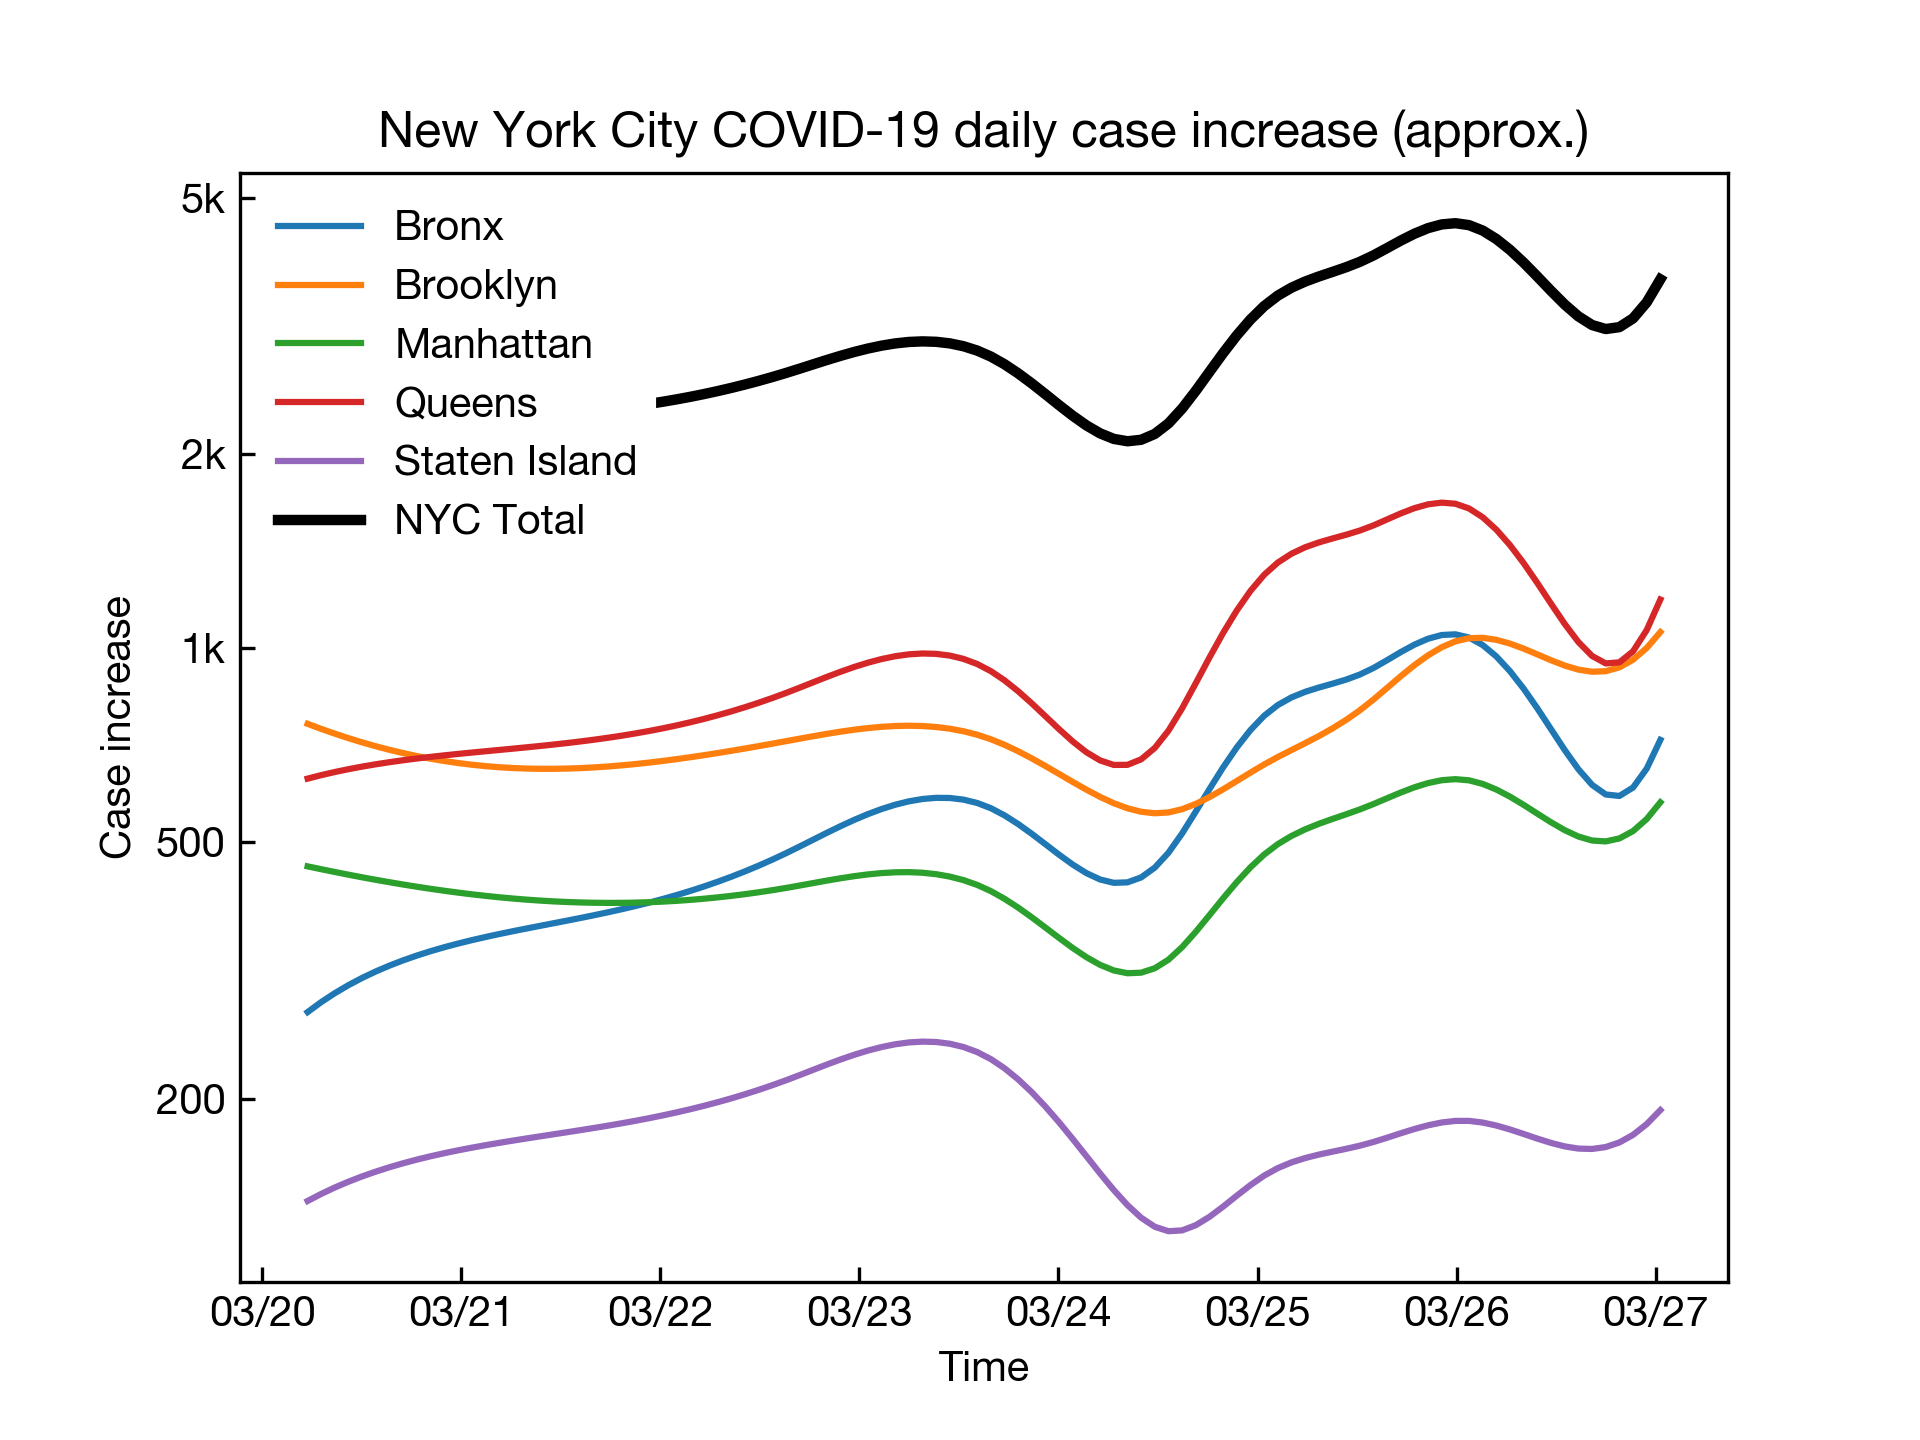
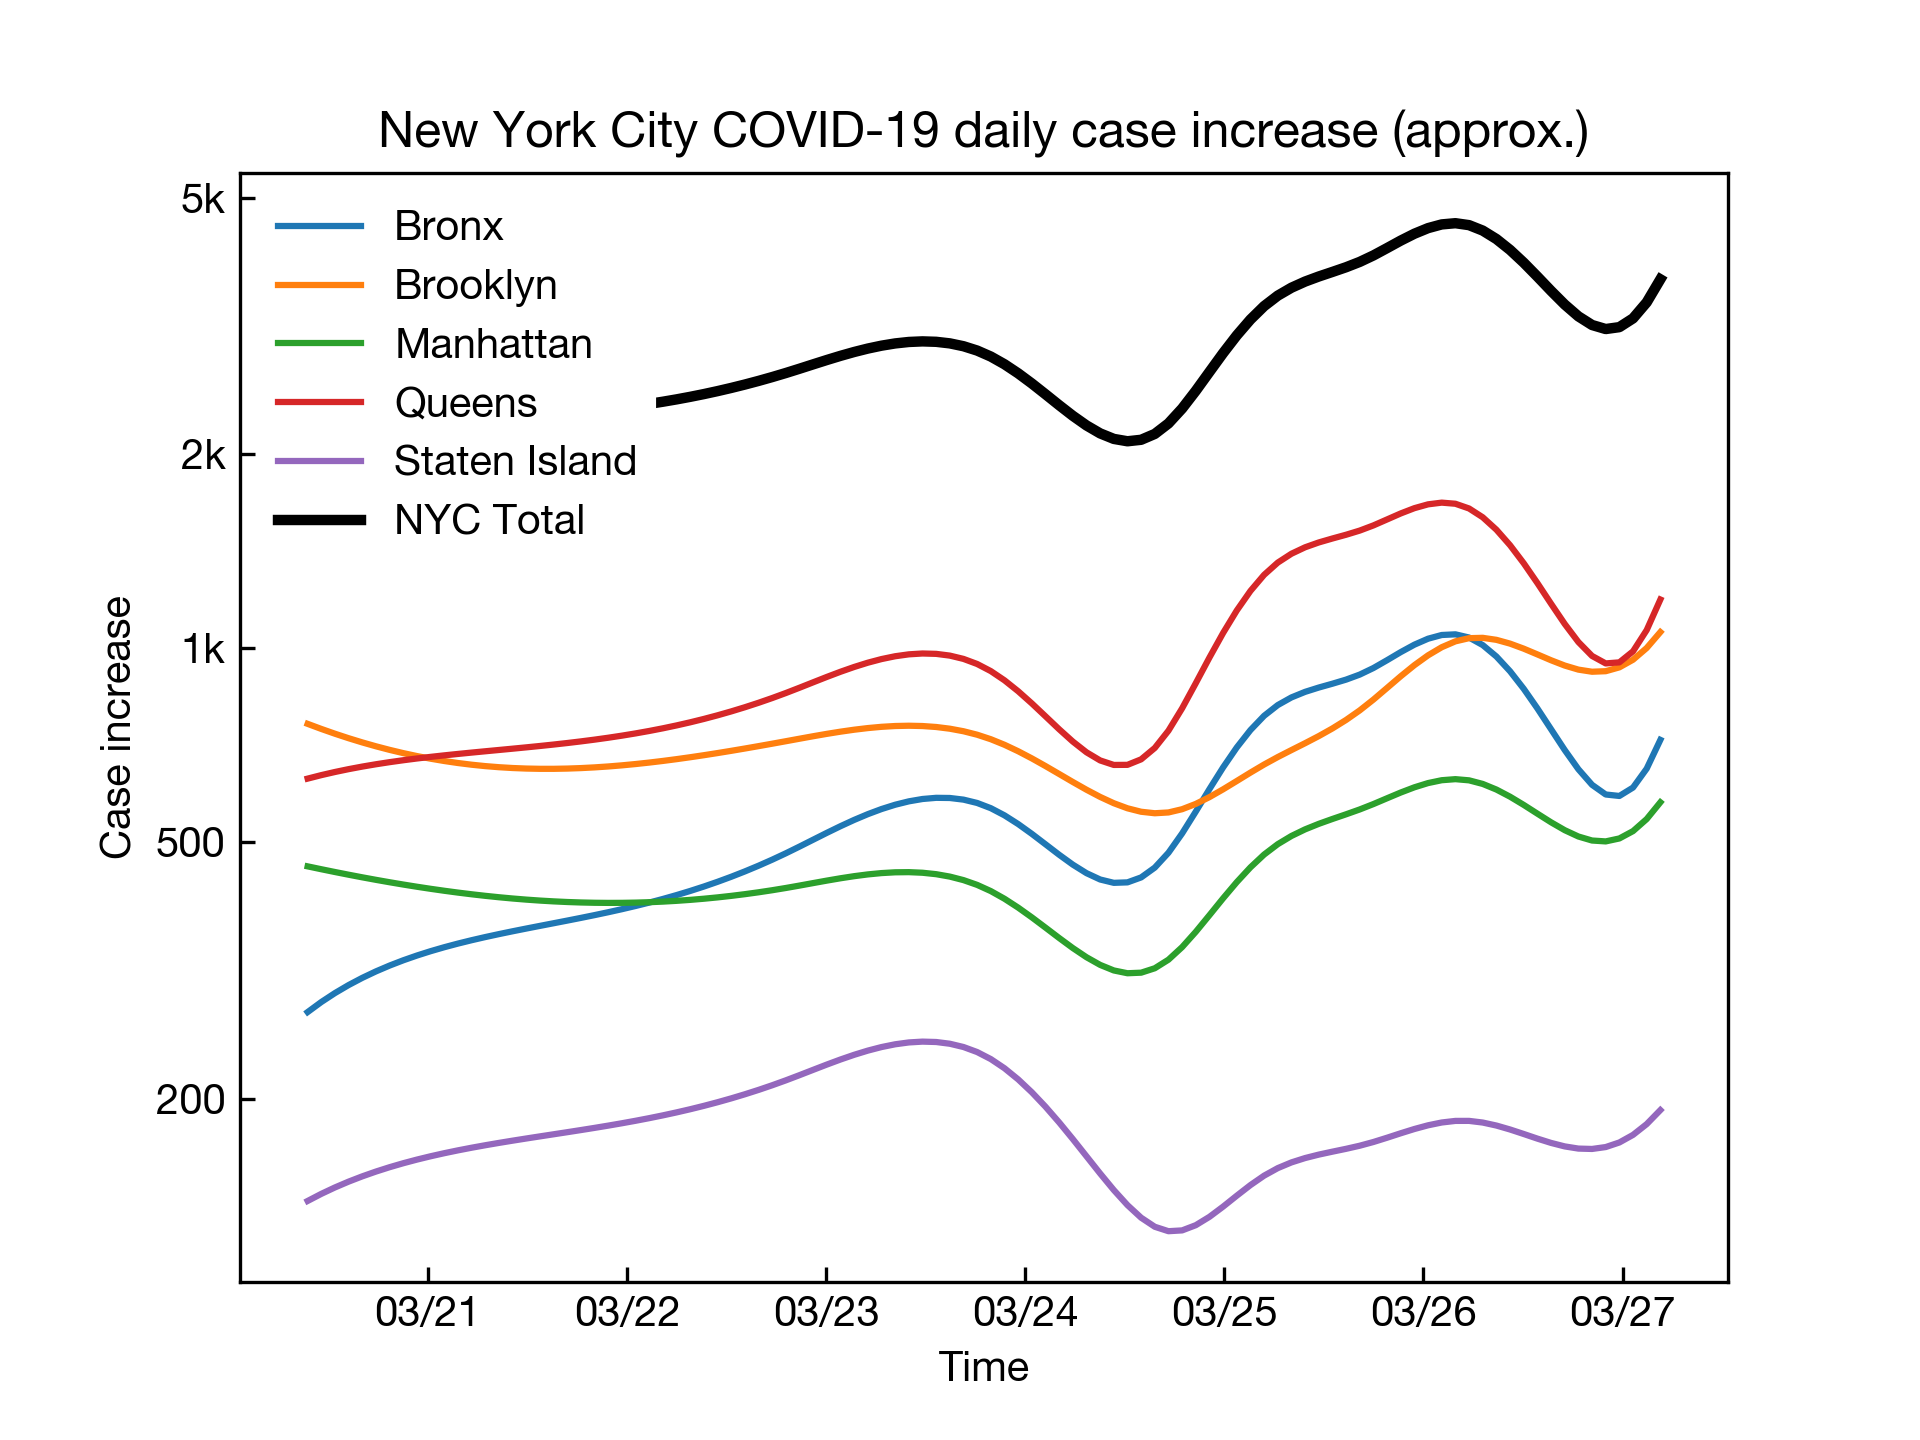
Update plot at Sat Mar 28 13:15:47 EDT 2020

diff --git a/scripts/util/rate2.py b/scripts/util/rate2.py
@@ -2,6 +2,7 @@ import scipy.interpolate
 import scipy.stats
 import numpy
 import datetime
+from dateutil import tz
 
 def calc_rate(x_array, y_array,  window=4, num=100, Interpolator=scipy.interpolate.InterpolatedUnivariateSpline):
 
@@ -25,6 +26,6 @@ def calc_rate(x_array, y_array,  window=4, num=100, Interpolator=scipy.interpola
 def calc_timeseries_rate(t_array, y_array):
     x_array = [t.timestamp for t in t_array]
     x_new, dy_dx_new = calc_rate(x_array, y_array)
-    t_new = [datetime.datetime.fromtimestamp(x) for x in x_new]
+    t_new = [datetime.datetime.fromtimestamp(x, tz=tz.gettz('US/Eastern')) for x in x_new]
     dy_dt_new = dy_dx_new * (3600 * 24)
     return t_new, dy_dt_new
